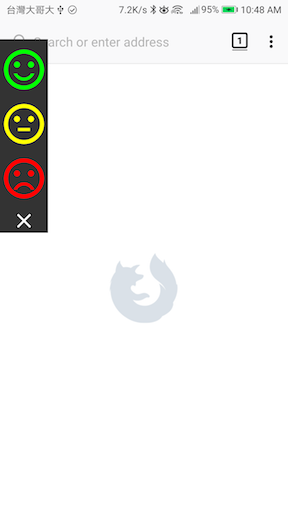
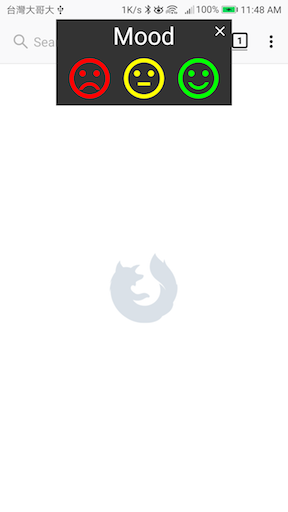
Update to be able to rate multiple moods

Changed region(s): [[0.0, 0.0, 0.8125, 0.4688], [0.8438, 0.0, 0.875, 0.0312]]

diff --git a/app/src/main/java/com/cannawen/moodtracker/RatingViewService.java b/app/src/main/java/com/cannawen/moodtracker/RatingViewService.java
@@ -11,10 +11,16 @@ import android.view.Gravity;
 import android.view.LayoutInflater;
 import android.view.View;
 import android.view.WindowManager;
+import android.widget.TextView;
+
+import java.util.Arrays;
+import java.util.List;
+import java.util.Random;
 
 public class RatingViewService extends Service {
     private WindowManager mWindowManager;
     private View moodRatingView;
+    private List<String> moods = Arrays.asList("Pain", "Mood", "Productivity", "Energy");
 
     @Override
     public IBinder onBind(Intent intent) {
@@ -41,13 +47,13 @@ public class RatingViewService extends Service {
         AlarmManager alarm = (AlarmManager) getSystemService(ALARM_SERVICE);
         alarm.set(
                 AlarmManager.RTC_WAKEUP,
-                System.currentTimeMillis() + (3 * 1000 * 60 * 60),
+                System.currentTimeMillis() + (1000 * 60 * 60),
                 PendingIntent.getService(this, 0, new Intent(this, RatingViewService.class), 0)
         );
     }
 
-    private boolean logMoodToDisk(String mood) {
-        return SaveUtility.saveMood(mood);
+    private boolean logMoodToDisk(String mood, String rating) {
+        return SaveUtility.saveMood(mood, rating);
     }
 
     private void handleSuccessfulLog() {
@@ -61,7 +67,6 @@ public class RatingViewService extends Service {
     private void initializeViews() {
         moodRatingView = LayoutInflater.from(this).inflate(R.layout.mood_rating_view, null);
 
-        //Add the view to the window.
         final WindowManager.LayoutParams params = new WindowManager.LayoutParams(
                 WindowManager.LayoutParams.WRAP_CONTENT,
                 WindowManager.LayoutParams.WRAP_CONTENT,
@@ -69,20 +74,19 @@ public class RatingViewService extends Service {
                 WindowManager.LayoutParams.FLAG_NOT_FOCUSABLE,
                 PixelFormat.TRANSLUCENT);
 
-        //Specify the chat head position
-        params.gravity = Gravity.TOP | Gravity.LEFT;        //Initially view will be added to top-left corner
-        params.x = 0;
-        params.y = 100;
+        params.gravity = Gravity.TOP | Gravity.CENTER_HORIZONTAL;
 
-        //Add the view to the window
         mWindowManager = (WindowManager) getSystemService(WINDOW_SERVICE);
         mWindowManager.addView(moodRatingView, params);
 
-        registerButton(R.id.mood_rating_very_positive, "+2");
-        registerButton(R.id.mood_rating_positive, "+1");
-        registerButton(R.id.mood_rating_neutral, "0");
-        registerButton(R.id.mood_rating_negative, "-1");
-        registerButton(R.id.mood_rating_very_negative, "-2");
+        String mood = moods.get(new Random().nextInt(moods.size()));
+
+        TextView moodText = moodRatingView.findViewById(R.id.mood_rating_description);
+        moodText.setText(mood);
+
+        registerButton(R.id.mood_rating_positive, mood, "+1");
+        registerButton(R.id.mood_rating_neutral, mood, "0");
+        registerButton(R.id.mood_rating_negative, mood, "-1");
 
         moodRatingView.findViewById(R.id.mood_rating_close).setOnClickListener(new View.OnClickListener() {
             @Override
@@ -92,11 +96,11 @@ public class RatingViewService extends Service {
         });
     }
 
-    private void registerButton(@IdRes int resId, final String mood) {
+    private void registerButton(@IdRes int resId, final String mood, final String rating) {
         moodRatingView.findViewById(resId).setOnClickListener(new View.OnClickListener() {
             @Override
             public void onClick(View v) {
-                if (logMoodToDisk(mood)) {
+                if (logMoodToDisk(mood, rating)) {
                     handleSuccessfulLog();
                 } else {
                     handleFailedLogAttempt();

diff --git a/app/src/main/java/com/cannawen/moodtracker/SaveUtility.java b/app/src/main/java/com/cannawen/moodtracker/SaveUtility.java
@@ -11,7 +11,7 @@ import java.util.Date;
 
 public class SaveUtility {
 
-    static public boolean saveMood(String mood) {
+    static public boolean saveMood(String mood, String rating) {
         try {
             File folder = new File(Environment.getExternalStorageDirectory() + File.separator + "MoodTracker");
             if (!folder.exists()) {
@@ -19,7 +19,7 @@ public class SaveUtility {
             }
 
             String filePath = folder.getPath() + File.separator + "data.csv";
-            File file = new File(filePath );
+            File file = new File(filePath);
             CSVWriter writer;
             FileWriter fileWriter;
 
@@ -32,7 +32,7 @@ public class SaveUtility {
             }
 
             Date now = new Date();
-            String[] data = {String.valueOf(now.getTime()), mood, DateFormat.format("yyyy-MM-dd hh:mm:ss a", now).toString()};
+            String[] data = {String.valueOf(now.getTime()), mood, rating, DateFormat.format("yyyy-MM-dd hh:mm:ss a", now).toString()};
 
             writer.writeNext(data);
 

diff --git a/README.md b/README.md
@@ -2,6 +2,6 @@
 
 # MoodTracker
 
-Android app that helps you track your mood throughout the day. Occasionally prompts you to rate your mood with a dialog that draws over other apps (à la Facebook Messenger chat heads). Saves timestamp and mood rating to file under MoodTracker/data.csv
+Android app that helps you track your moods throughout the day. Occasionally prompts you to rate your mood with a dialog that draws over other apps (à la Facebook Messenger chat heads). Saves timestamp and mood rating to file under MoodTracker/data.csv
 
 ![screenshot](screenshot.png)
